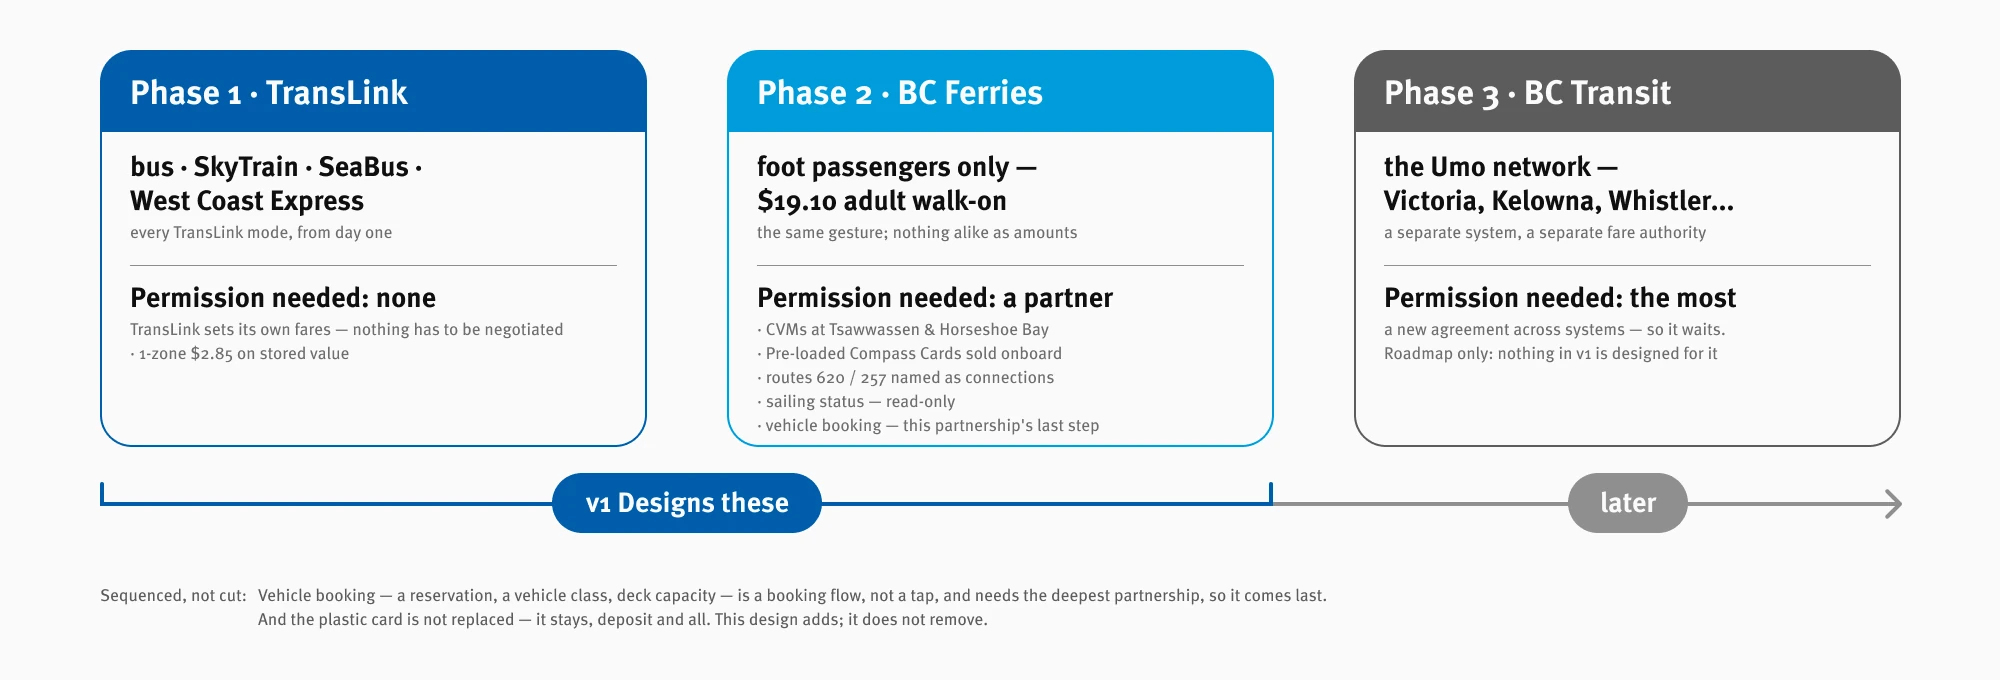
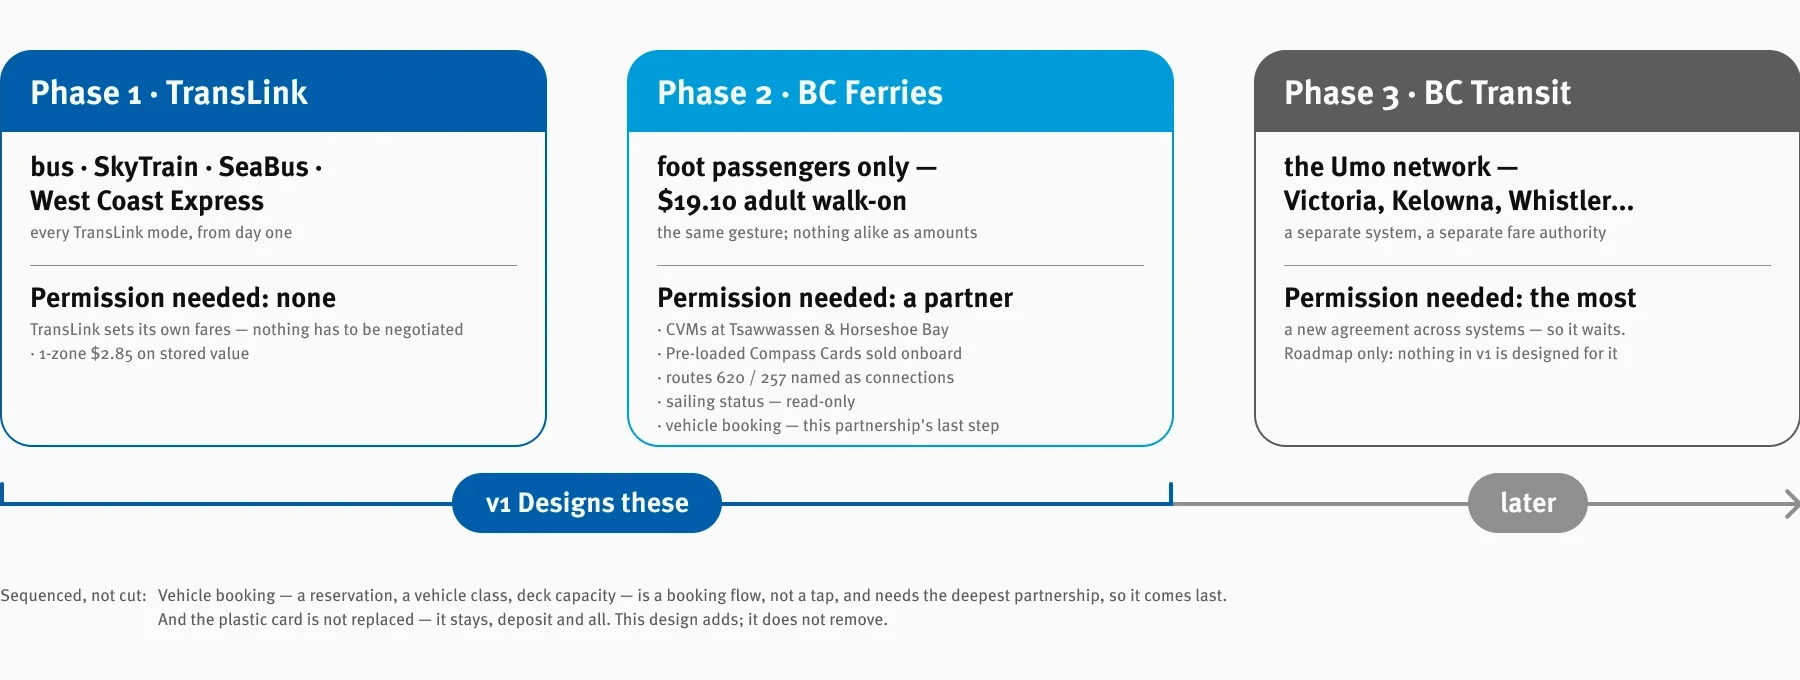
Compass figures: the frame's side margins cut off
The figures are exported from Figma frames laid out on a guide with a
100px margin either side of 2000, and the margin came with the export,
so on the page each figure stood 5% in from the edges of its column.
scripts/crop-compass-figs.py takes exactly that 5% off both sides of the
thirteen diagrams (200px at the 2x exports, which are cut to 0.56 as
before) and leaves the top and bottom alone; the tap photograph has no
frame and is untouched. The uncut exports of the eight that had no
original on file are kept under originals/, the way every upload is.

diff --git a/site/scripts/crop-compass-figs.py b/site/scripts/crop-compass-figs.py
@@ -1,0 +1,46 @@
+"""Cut the Figma graphics frame's side margins off the Compass figures.
+
+The figures are exported from 2000-wide frames laid out on the "grahics"
+layout guide — seven columns, a 100px margin either side, 40px gutters —
+and the margin comes with the export, so on the page the figure stood 5%
+in from each edge of its column. This takes exactly that 5% off both
+sides (100px at 2000, 200px at the 2x exports) and leaves the top and
+bottom as they are.
+
+Sources: the 2x originals in originals/src/assets/compass where the owner
+supplied them (the ones exported at 4000 wide, cut to 0.56 of that for
+the page, as before), and otherwise the export itself — the uncut copy of
+which is kept beside them under originals/ the way every upload is.
+
+    python3 scripts/crop-compass-figs.py
+"""
+from pathlib import Path
+import shutil
+from PIL import Image
+
+ROOT = Path(__file__).resolve().parent.parent
+ASSETS = ROOT / "src/assets/compass"
+ORIGINALS = ROOT / "originals/src/assets/compass"
+MARGIN = 0.05  # the guide's 100px of a 2000px frame
+SCALE_2X = 0.56  # the 4000-wide exports' share on the page (2240 wide, as cut before)
+QUALITY = 88
+NAMES = [
+    "audit", "balance-paths", "card", "colour", "component", "coverage-roadmap",
+    "cvm", "ia", "system", "task-table", "timeline", "type", "website",
+]
+
+for name in NAMES:
+    out = ASSETS / f"compass-fig-{name}.webp"
+    original = ORIGINALS / out.name
+    if not original.exists():
+        # the export is the original: keep it uncut
+        ORIGINALS.mkdir(parents=True, exist_ok=True)
+        shutil.copy2(out, original)
+    im = Image.open(original).convert("RGB")
+    w, h = im.size
+    cut = round(w * MARGIN)
+    im = im.crop((cut, 0, w - cut, h))
+    if w >= 4000:
+        im = im.resize((round(im.width * SCALE_2X), round(im.height * SCALE_2X)), Image.LANCZOS)
+    im.save(out, "WEBP", quality=QUALITY, method=6)
+    print(f"{out.name:36s} {w}x{h} -{cut}px each side -> {im.width}x{im.height}  {out.stat().st_size // 1024} KB")
